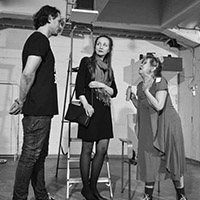
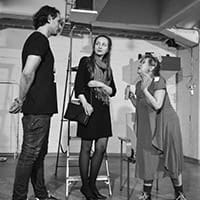
картинки оптимизация

diff --git a/ru/index.html b/ru/index.html
@@ -104,10 +104,10 @@
   <section class="block-1" id="about">
     <div class="pics-block flex justify-center align flex-wrap">
       <a href="../images/about/001.jpg" data-fancybox="group">
-        <img src="../images/about/001.jpg" alt="VikArt - Contemporary Drama Theatre - Lab">
+        <img src="../images/about/001-min.jpg" alt="VikArt - Contemporary Drama Theatre - Lab">
       </a>
       <a href="../images/about/002.jpg" data-fancybox="group">
-        <img src="../images/about/002.jpg" alt="VikArt - Contemporary Drama Theatre - Lab">
+        <img src="../images/about/002-min.jpg" alt="VikArt - Contemporary Drama Theatre - Lab">
       </a>
       <a href="../images/about/003.jpg" data-fancybox="group">
         <img src="../images/about/003-min.jpg" alt="VikArt - Contemporary Drama Theatre - Lab">
@@ -115,11 +115,11 @@
       <a href="../images/about/004.jpg" data-fancybox="group">
         <img src="../images/about/004-min.jpg" alt="VikArt - Contemporary Drama Theatre - Lab">
       </a>
-      <a href="../images/about/003.jpg" data-fancybox="group">
-        <img src="../images/about/003.jpg" alt="VikArt - Contemporary Drama Theatre - Lab">
+      <a href="../images/about/005.jpg" data-fancybox="group">
+        <img src="../images/about/005-min.jpg" alt="VikArt - Contemporary Drama Theatre - Lab">
       </a>
-      <a href="../images/about/004.jpg" data-fancybox="group">
-        <img src="../images/about/004.jpg" alt="VikArt - Contemporary Drama Theatre - Lab">
+      <a href="../images/about/006.jpg" data-fancybox="group">
+        <img src="../images/about/006-min.jpg" alt="VikArt - Contemporary Drama Theatre - Lab">
       </a>
     </div>
     <article class="about-us about">
@@ -158,7 +158,7 @@
            <!-- Ссылка на покупку билета -->
           <a class="ticket-btn" href="https://holvi.com/shop/datalahti/section/vikart-theatre/spektakl-produkt-play-product/"><p>купить</p></a>
           <!-- Постер -->
-          <img src="../images/bill/001.jpg" alt="poster">
+          <img src="../images/bill/001-min.jpg" alt="poster">
         </figure>
          <!-- Кнопку спрятать или показать - 'none' или 'block' -->
           <!-- При добавлении ещё 1 постера меняем цифру в параметре 'value' -->
@@ -199,7 +199,7 @@
       <div class="description">
         <figure>
           <a class="ticket-btn" href="https://holvi.com/shop/datalahti/section/vikart-theatre/spektakl-kak-ia-stal/"><p>купить</p></a>
-          <img src="../images/bill/002.jpg" alt="poster">
+          <img src="../images/bill/002-min.jpg" alt="poster">
         </figure>
         <button class="info-btn" value="poster2" data-id="table2" onclick="">
           <span>»</span>

diff --git a/fi/index.html b/fi/index.html
@@ -104,10 +104,10 @@
   <section class="block-1" id="about">
     <div class="pics-block flex justify-center align flex-wrap">
       <a href="../images/about/001.jpg" data-fancybox="group">
-        <img src="../images/about/001.jpg" alt="VikArt - Contemporary Drama Theatre - Lab">
+        <img src="../images/about/001-min.jpg" alt="VikArt - Contemporary Drama Theatre - Lab">
       </a>
       <a href="../images/about/002.jpg" data-fancybox="group">
-        <img src="../images/about/002.jpg" alt="VikArt - Contemporary Drama Theatre - Lab">
+        <img src="../images/about/002-min.jpg" alt="VikArt - Contemporary Drama Theatre - Lab">
       </a>
       <a href="../images/about/003.jpg" data-fancybox="group">
         <img src="../images/about/003-min.jpg" alt="VikArt - Contemporary Drama Theatre - Lab">
@@ -115,11 +115,11 @@
       <a href="../images/about/004.jpg" data-fancybox="group">
         <img src="../images/about/004-min.jpg" alt="VikArt - Contemporary Drama Theatre - Lab">
       </a>
-      <a href="../images/about/003.jpg" data-fancybox="group">
-        <img src="../images/about/003.jpg" alt="VikArt - Contemporary Drama Theatre - Lab">
+      <a href="../images/about/005.jpg" data-fancybox="group">
+        <img src="../images/about/005-min.jpg" alt="VikArt - Contemporary Drama Theatre - Lab">
       </a>
-      <a href="../images/about/004.jpg" data-fancybox="group">
-        <img src="../images/about/004.jpg" alt="VikArt - Contemporary Drama Theatre - Lab">
+      <a href="../images/about/006.jpg" data-fancybox="group">
+        <img src="../images/about/006-min.jpg" alt="VikArt - Contemporary Drama Theatre - Lab">
       </a>
     </div>
     <article class="about-us about">
@@ -158,7 +158,7 @@
            <!-- Ссылка на покупку билета -->
           <a class="ticket-btn" href="https://holvi.com/shop/datalahti/section/vikart-theatre/spektakl-produkt-play-product/"><p>osta</p></a>
           <!-- Постер -->
-          <img src="../images/bill/001.jpg" alt="poster">
+          <img src="../images/bill/001-min.jpg" alt="poster">
         </figure>
          <!-- Кнопку спрятать или показать - 'none' или 'block' -->
           <!-- При добавлении ещё 1 постера меняем цифру в параметре 'value' -->
@@ -199,7 +199,7 @@
       <div class="description">
         <figure>
           <a class="ticket-btn" href="https://holvi.com/shop/datalahti/section/vikart-theatre/spektakl-kak-ia-stal/"><p>osta</p></a>
-          <img src="../images/bill/002.jpg" alt="poster">
+          <img src="../images/bill/002-min.jpg" alt="poster">
         </figure>
         <button class="info-btn" value="poster2" data-id="table2" onclick="">
           <span>»</span>

diff --git a/en/index.html b/en/index.html
@@ -104,10 +104,10 @@
   <section class="block-1" id="about">
     <div class="pics-block flex justify-center align flex-wrap">
       <a href="../images/about/001.jpg" data-fancybox="group">
-        <img src="../images/about/001.jpg" alt="VikArt - Contemporary Drama Theatre - Lab">
+        <img src="../images/about/001-min.jpg" alt="VikArt - Contemporary Drama Theatre - Lab">
       </a>
       <a href="../images/about/002.jpg" data-fancybox="group">
-        <img src="../images/about/002.jpg" alt="VikArt - Contemporary Drama Theatre - Lab">
+        <img src="../images/about/002-min.jpg" alt="VikArt - Contemporary Drama Theatre - Lab">
       </a>
       <a href="../images/about/003.jpg" data-fancybox="group">
         <img src="../images/about/003-min.jpg" alt="VikArt - Contemporary Drama Theatre - Lab">
@@ -115,11 +115,11 @@
       <a href="../images/about/004.jpg" data-fancybox="group">
         <img src="../images/about/004-min.jpg" alt="VikArt - Contemporary Drama Theatre - Lab">
       </a>
-      <a href="../images/about/003.jpg" data-fancybox="group">
-        <img src="../images/about/003.jpg" alt="VikArt - Contemporary Drama Theatre - Lab">
+      <a href="../images/about/005.jpg" data-fancybox="group">
+        <img src="../images/about/005-min.jpg" alt="VikArt - Contemporary Drama Theatre - Lab">
       </a>
-      <a href="../images/about/004.jpg" data-fancybox="group">
-        <img src="../images/about/004.jpg" alt="VikArt - Contemporary Drama Theatre - Lab">
+      <a href="../images/about/006.jpg" data-fancybox="group">
+        <img src="../images/about/006-min.jpg" alt="VikArt - Contemporary Drama Theatre - Lab">
       </a>
     </div>
     <article class="about-us about">
@@ -158,7 +158,7 @@
            <!-- Ссылка на покупку билета -->
           <a class="ticket-btn" href="https://holvi.com/shop/datalahti/section/vikart-theatre/spektakl-produkt-play-product/"><p>buy</p></a>
           <!-- Постер -->
-          <img src="../images/bill/001.jpg" alt="poster">
+          <img src="../images/bill/001-min.jpg" alt="poster">
         </figure>
          <!-- Кнопку спрятать или показать - 'none' или 'block' -->
           <!-- При добавлении ещё 1 постера меняем цифру в параметре 'value' -->
@@ -199,7 +199,7 @@
       <div class="description">
         <figure>
           <a class="ticket-btn" href="https://holvi.com/shop/datalahti/section/vikart-theatre/spektakl-kak-ia-stal/"><p>buy</p></a>
-          <img src="../images/bill/002.jpg" alt="poster">
+          <img src="../images/bill/002-min.jpg" alt="poster">
         </figure>
         <button class="info-btn" value="poster2" data-id="table2" onclick="">
           <span>»</span>

diff --git a/ru/gallery.html b/ru/gallery.html
@@ -53,7 +53,7 @@
       <a href="../images/about/001.jpg" data-fancybox="group">
         <figure>
           <!-- уменьшеная версия, для показа на сайте -->
-          <img src="../images/bill/001.jpg" alt="gallery-poster">
+          <img src="../images/bill/001-min.jpg" alt="gallery-poster">
         </figure>
         <span>Галлерея</span>
       </a>
@@ -67,7 +67,7 @@
     <div class="block-gallery" id="gallery2" style="order: 2;">
       <a href="../images/about/001.jpg" data-fancybox="group1">
         <figure>
-          <img src="../images/bill/002.jpg" alt="gallery-poster">
+          <img src="../images/bill/002-min.jpg" alt="gallery-poster">
         </figure>
         <span>Галлерея</span>
       </a>
@@ -81,7 +81,7 @@
     <div class="block-gallery" id="gallery3" style="order: 3;">
       <a href="../images/about/001.jpg" data-fancybox="group2">
         <figure>
-          <img src="../images/bill/003.jpg" alt="gallery-poster">
+          <img src="../images/bill/003-min.jpg" alt="gallery-poster">
         </figure>
         <span>Галлерея</span>
       </a>
@@ -95,7 +95,7 @@
     <div class="block-gallery" id="gallery4" style="order: 4;">
       <a href="../images/about/001.jpg" data-fancybox="group3">
         <figure>
-          <img src="../images/bill/004.jpg" alt="gallery-poster">
+          <img src="../images/bill/004-min.jpg" alt="gallery-poster">
         </figure>
         <span>Галлерея</span>
       </a>
@@ -109,7 +109,7 @@
     <div class="block-gallery" id="gallery5" style="order: 5;">
       <a href="../images/about/001.jpg" data-fancybox="group4">
         <figure>
-          <img src="../images/bill/005.jpg" alt="gallery-poster">
+          <img src="../images/bill/005-min.jpg" alt="gallery-poster">
         </figure>
         <span>Галлерея</span>
       </a>
@@ -123,7 +123,7 @@
     <div class="block-gallery" style="order: 6;">
       <a href="../images/about/001.jpg" data-fancybox="group5">
         <figure>
-          <img src="../images/bill/005.jpg" alt="gallery-poster">
+          <img src="../images/bill/005-min.jpg" alt="gallery-poster">
         </figure>
         <span>Галлерея</span>
       </a>
@@ -137,7 +137,7 @@
     <div class="block-gallery" style="order: 7;">
       <a href="../images/about/001.jpg" data-fancybox="group6">
         <figure>
-          <img src="../images/bill/001.jpg" alt="gallery-poster">
+          <img src="../images/bill/001-min.jpg" alt="gallery-poster">
         </figure>
         <span>Галлерея</span>
       </a>

diff --git a/fi/gallery.html b/fi/gallery.html
@@ -49,7 +49,7 @@
       <div class="block-gallery" id="gallery1">
         <a href="../images/about/001.jpg" data-fancybox="group">
           <figure>
-            <img src="../images/bill/001.jpg" alt="gallery-poster">
+            <img src="../images/bill/001-min.jpg" alt="gallery-poster">
           </figure>
           <span>Galleria</span>
         </a>
@@ -63,7 +63,7 @@
       <div class="block-gallery" id="gallery2">
         <a href="../images/about/001.jpg" data-fancybox="group1">
           <figure>
-            <img src="../images/bill/002.jpg" alt="gallery-poster">
+            <img src="../images/bill/002-min.jpg" alt="gallery-poster">
           </figure>
           <span>Galleria</span>
         </a>
@@ -77,7 +77,7 @@
       <div class="block-gallery" id="gallery3">
         <a href="../images/about/001.jpg" data-fancybox="group2">
           <figure>
-            <img src="../images/bill/003.jpg" alt="gallery-poster">
+            <img src="../images/bill/003-min.jpg" alt="gallery-poster">
           </figure>
           <span>Galleria</span>
         </a>
@@ -91,7 +91,7 @@
       <div class="block-gallery" id="gallery4">
         <a href="../images/about/001.jpg" data-fancybox="group3">
           <figure>
-            <img src="../images/bill/004.jpg" alt="gallery-poster">
+            <img src="../images/bill/004-min.jpg" alt="gallery-poster">
           </figure>
           <span>Galleria</span>
         </a>
@@ -105,7 +105,7 @@
       <div class="block-gallery" id="gallery5">
         <a href="../images/about/001.jpg" data-fancybox="group4">
           <figure>
-            <img src="../images/bill/005.jpg" alt="gallery-poster">
+            <img src="../images/bill/005-min.jpg" alt="gallery-poster">
           </figure>
           <span>Galleria</span>
         </a>
@@ -119,7 +119,7 @@
       <div class="block-gallery" id="gallery6">
         <a href="../images/about/001.jpg" data-fancybox="group5">
           <figure>
-            <img src="../images/bill/001.jpg" alt="gallery-poster">
+            <img src="../images/bill/001-min.jpg" alt="gallery-poster">
           </figure>
           <span>Galleria</span>
         </a>
@@ -133,7 +133,7 @@
       <div class="block-gallery">
         <a href="../images/about/001.jpg" data-fancybox="group6">
           <figure>
-            <img src="../images/bill/001.jpg" alt="gallery-poster">
+            <img src="../images/bill/001-min.jpg" alt="gallery-poster">
           </figure>
           <span>Galleria</span>
         </a>

diff --git a/en/gallery.html b/en/gallery.html
@@ -49,7 +49,7 @@
     <div class="block-gallery" id="gallery1" style="order: 1;">
       <a href="../images/about/001.jpg" data-fancybox="group">
         <figure>
-          <img src="../images/bill/001.jpg" alt="gallery-poster">
+          <img src="../images/bill/001-min.jpg" alt="gallery-poster">
         </figure>
         <span>Gallery</span>
       </a>
@@ -63,7 +63,7 @@
     <div class="block-gallery" id="gallery2" style="order: 2;">
       <a href="../images/about/001.jpg" data-fancybox="group1">
         <figure>
-          <img src="../images/bill/002.jpg" alt="gallery-poster">
+          <img src="../images/bill/002-min.jpg" alt="gallery-poster">
         </figure>
         <span>Gallery</span>
       </a>
@@ -77,7 +77,7 @@
     <div class="block-gallery" id="gallery3" style="order: 3;">
       <a href="../images/about/001.jpg" data-fancybox="group2">
         <figure>
-          <img src="../images/bill/003.jpg" alt="gallery-poster">
+          <img src="../images/bill/003-min.jpg" alt="gallery-poster">
         </figure>
         <span>Gallery</span>
       </a>
@@ -91,7 +91,7 @@
     <div class="block-gallery" id="gallery4" style="order: 4;">
       <a href="../images/about/001.jpg" data-fancybox="group3">
         <figure>
-          <img src="../images/bill/004.jpg" alt="gallery-poster">
+          <img src="../images/bill/004-min.jpg" alt="gallery-poster">
         </figure>
         <span>Gallery</span>
       </a>
@@ -105,7 +105,7 @@
     <div class="block-gallery" id="gallery5" style="order: 5;">
       <a href="../images/about/001.jpg" data-fancybox="group4">
         <figure>
-          <img src="../images/bill/005.jpg" alt="gallery-poster">
+          <img src="../images/bill/005-min.jpg" alt="gallery-poster">
         </figure>
         <span>Gallery</span>
       </a>
@@ -119,7 +119,7 @@
     <div class="block-gallery" style="order: 6;">
       <a href="../images/about/001.jpg" data-fancybox="group5">
         <figure>
-          <img src="../images/bill/001.jpg" alt="gallery-poster">
+          <img src="../images/bill/001-min.jpg" alt="gallery-poster">
         </figure>
         <span>Gallery</span>
       </a>
@@ -133,7 +133,7 @@
     <div class="block-gallery" style="order: 7;">
       <a href="../images/about/001.jpg" data-fancybox="group6">
         <figure>
-          <img src="../images/bill/001.jpg" alt="gallery-poster">
+          <img src="../images/bill/001-min.jpg" alt="gallery-poster">
         </figure>
         <span>Gallery</span>
       </a>
